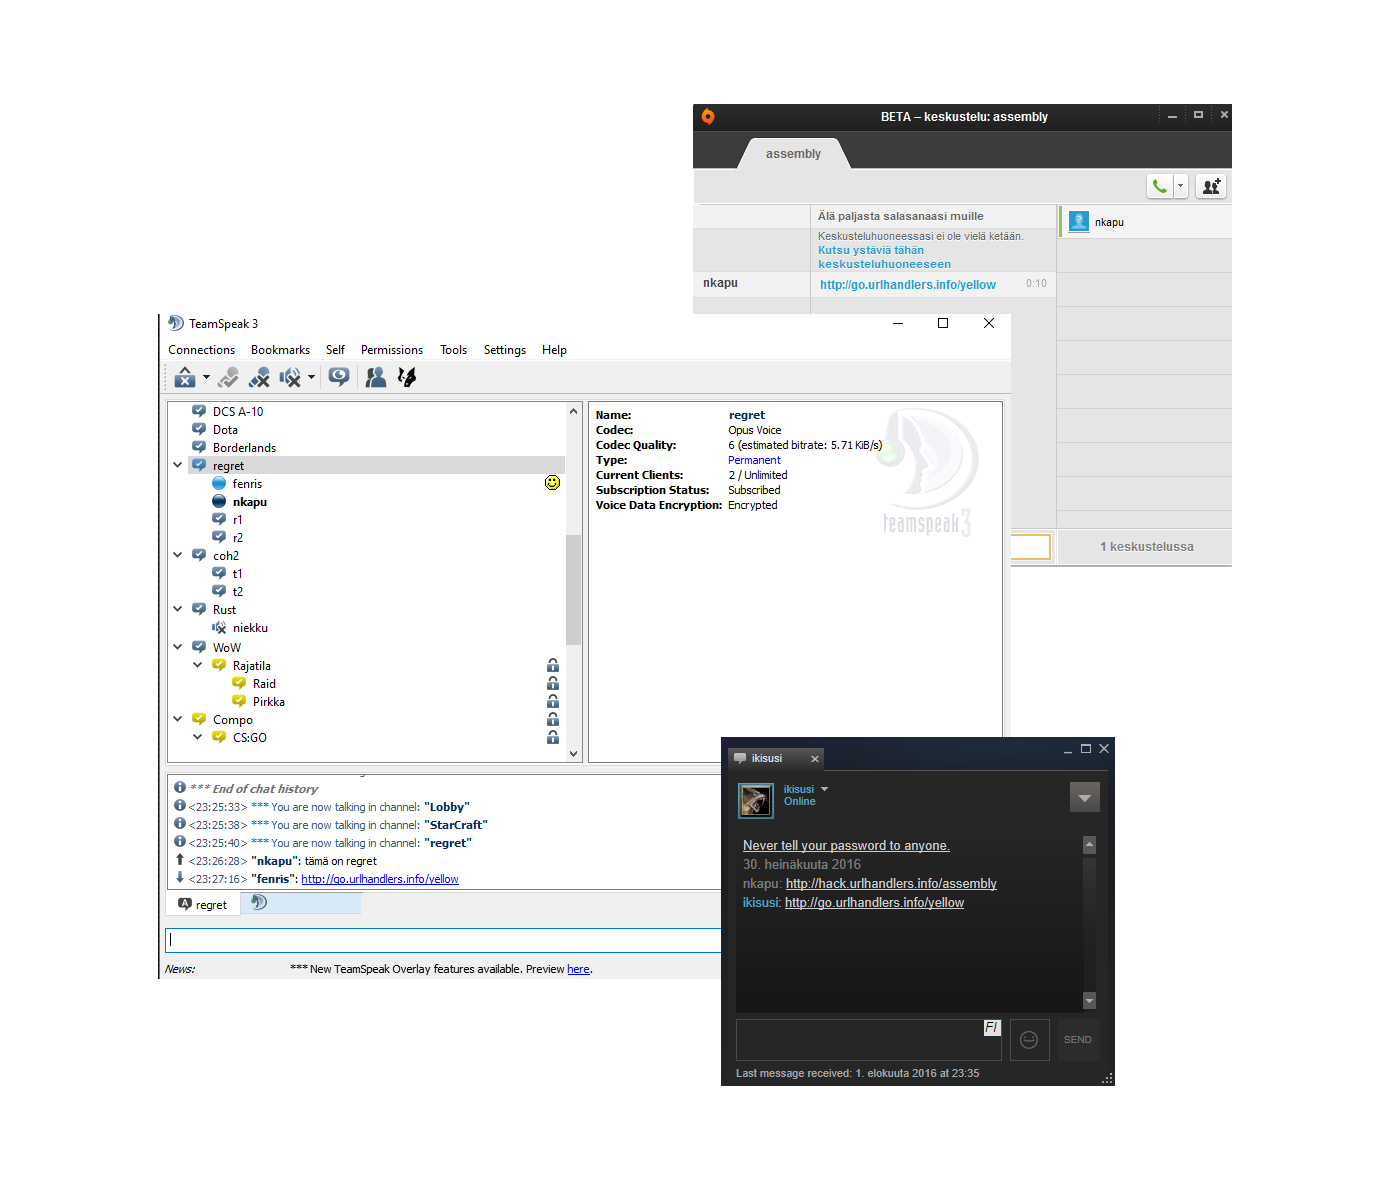
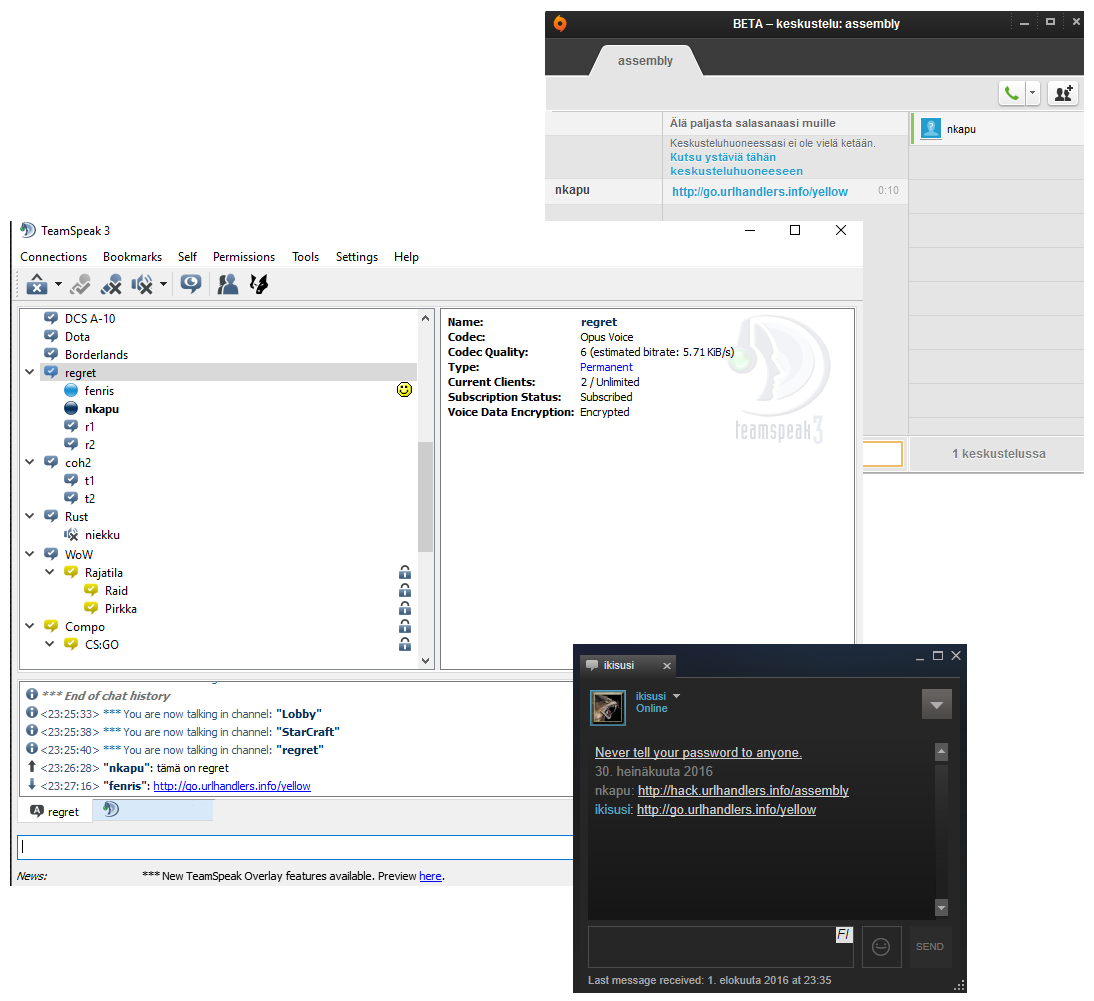
assy presentation - cropped chats and placeholder for the browsers

Changed region(s): [[0.0, 0.0, 0.9945, 1.0], [0.1243, 0.8671, 0.404, 0.8981], [0.6527, 0.4336, 0.6837, 0.4645]]

diff --git a/web/assembly/presentation.md b/web/assembly/presentation.md
@@ -146,6 +146,14 @@ class: center, middle
 
 ---
 
+class: center, bottom
+
+![browsers to launch the URLs](img/browsers.png)
+
+## Plenty of browsers to launch the URLs - in and out of the game
+
+---
+
 class: center, middle
 
 ## We're yellow, beat us
@@ -158,17 +166,11 @@ class: center, middle
 
 ---
 
-class: center, middle
-
-## FIXME: (screenshots of browsers: ingame etc.)
-
----
-
 class: center, bottom
 
-![scheme cloud full](img/chats.png)
+![chats to pass URLs](img/chats.png)
 
-## FIXME: (screenshots of chats)
+## Plenty of ways to spread the URLs, go go :)
 
 ---
 
